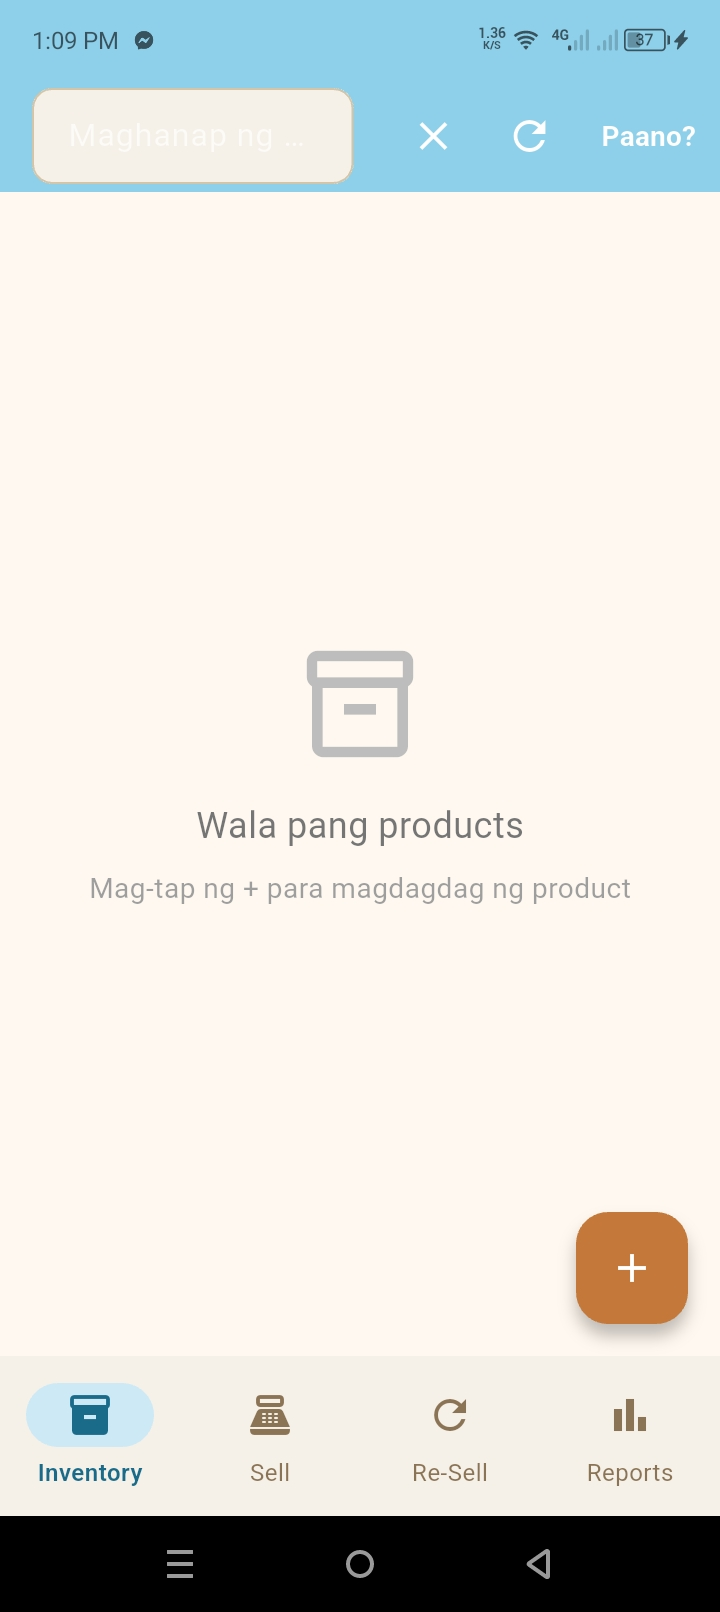
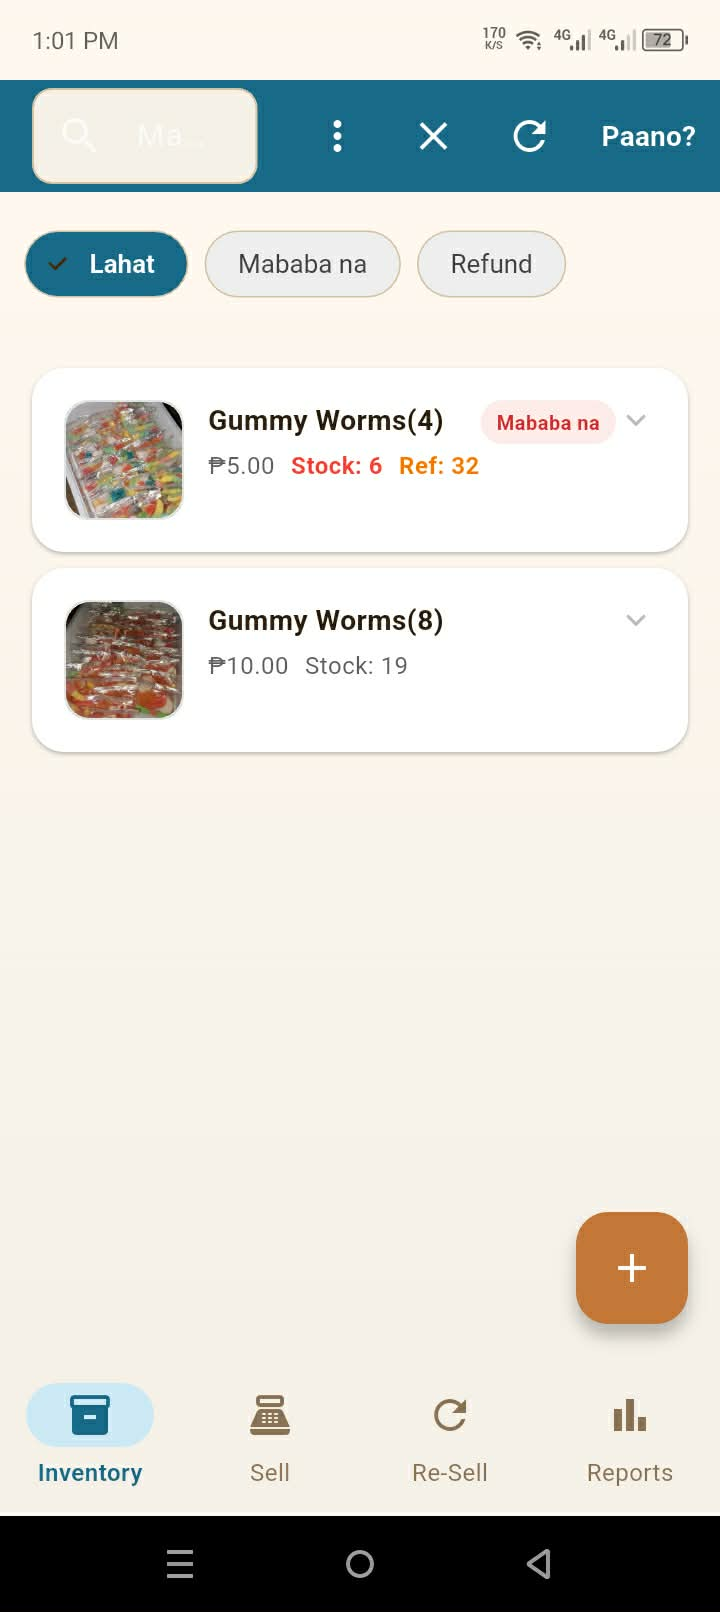
tech stack upd and UI update sample in saritrack

diff --git a/index.html b/index.html
@@ -628,16 +628,26 @@
         <ul class="techstack-list" aria-label="Tech stack">
         <li>PHP</li>
         <li>MySQL</li>
+        <li>PDO</li>
         <li>Tailwind CSS</li>
-        <li>JavaScript</li>
+        <li>Vanilla JavaScript</li>
         <li>Chart.js</li>
+        <li>FL Chart</li>
         <li>PWA</li>
         <li>JSON</li>
         <li>Flutter</li>
+        <li>Dart</li>
+        <li>Python Flask</li>
+        <li>SQLite</li>
         <li>HTML5 / CSS3</li>
         <li>Git</li>
         <li>VS Code</li>
+        <li>Android Studio</li>
         <li>Figma</li>
+        <li>Font Awesome 6</li>
+        <li>Canvas API</li>
+        <li>Provider</li>
+        <li>RESTful API</li>
         </ul>
       </section>
     </aside>
@@ -664,7 +674,9 @@
               <button class="carousel-btn left" aria-label="Previous">&#10094;</button>
               <div class="project-carousel">
                 <img src="saritrack-inventoryTab.jpg" alt="Sari Track Preview 1" loading="lazy">
-                <img src="saritrack-reportsTab.jpg" alt="Sari Track Preview 2" loading="lazy">
+                <img src="saritrack-sellTab.jpg" alt="Sari Track Preview 2" loading="lazy">
+                <img src="saritrack-profitdailysection-reportsTab.jpg" alt="Sari Track Preview 3" loading="lazy">
+                <img src="saritrack-profitweeklysection-reportsTab.jpg" alt="Sari Track Preview 4" loading="lazy">
               </div>
               <button class="carousel-btn right" aria-label="Next">&#10095;</button>
             </div>